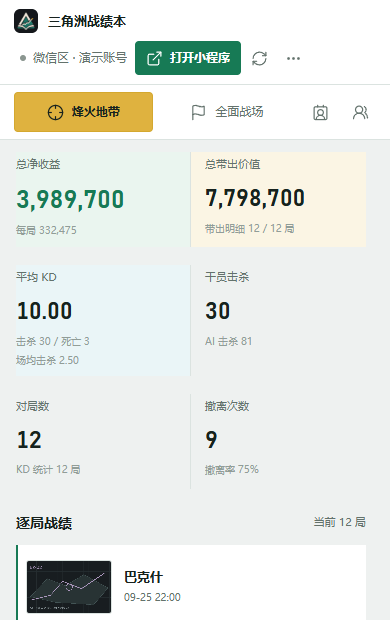
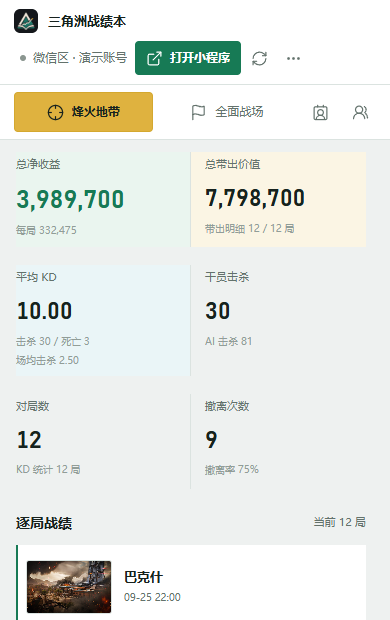
Rename regenerated screenshots so returning visitors get the new ones (#12)
The light-theme refresh replaced the screenshot contents but kept the old
file names, and these images are served with a one-day cache. Anyone who had
loaded the site earlier kept seeing the dark screenshots while the page around
them had already turned light.

The stylesheet was renamed for exactly this reason; the screenshots now follow
the same rule, moving to the -1.9.4 names already used by the phone-sized
renders. Nothing else changes: the harness writes the new names, and the pages,
release verification list and asset whitelist were updated to match.

Changed region(s): [[0.0615, 0.8887, 0.3077, 1.0]]

diff --git a/web/download.html b/web/download.html
@@ -11,7 +11,7 @@
   <link rel="icon" type="image/png" sizes="16x16" href="assets/favicon-16-v2.png">
   <link rel="apple-touch-icon" href="assets/app-icon-v2.png">
   <link rel="stylesheet" href="assets/download-page-v6.css">
-  <link rel="preload" as="image" href="assets/workspace-hero-1.9.0.png" media="(min-width: 721px)">
+  <link rel="preload" as="image" href="assets/workspace-hero-1.9.4.png" media="(min-width: 721px)">
   <link rel="preload" as="image" href="assets/workspace-overview-m-1.9.4.png" media="(max-width: 720px)">
   <script defer src="assets/lucide-0.468.0.min.js"></script>
   <script defer src="assets/download-1.9.4.js"></script>
@@ -42,7 +42,7 @@
       <div class="hero-product">
         <picture>
           <source media="(max-width: 720px)" srcset="assets/workspace-overview-m-1.9.4.png">
-          <img src="assets/workspace-hero-1.9.0.png" width="1264" height="515" alt="新版三角洲战绩本程序实景：玩法导航、收益汇总与逐局战绩。画面为演示数据。" fetchpriority="high">
+          <img src="assets/workspace-hero-1.9.4.png" width="1264" height="515" alt="新版三角洲战绩本程序实景：玩法导航、收益汇总与逐局战绩。画面为演示数据。" fetchpriority="high">
         </picture>
       </div>
       <span class="hero-image-label">程序实景 / 演示数据</span>
@@ -60,30 +60,30 @@
       </div>
       <div class="preview-panel" id="panel-overview" role="tabpanel" aria-labelledby="tab-overview" tabindex="0">
         <div class="preview-caption"><h3>带出多少，和净赚多少，分开算。</h3><p>净收益、带出价值、KD 与撤离表现，一眼看清。再按地图和难度，找到值得复盘的那一局。</p></div>
-        <a class="shot" href="assets/workspace-overview-1.9.0.png" target="_blank" rel="noopener">
+        <a class="shot" href="assets/workspace-overview-1.9.4.png" target="_blank" rel="noopener">
           <picture>
             <source media="(max-width: 720px)" srcset="assets/workspace-overview-m-1.9.4.png">
-            <img class="product-screenshot" src="assets/workspace-overview-1.9.0.png" width="1500" height="940" alt="个人战绩页实景，展示收益汇总、地图筛选和逐局战绩，数据为虚构演示" loading="lazy">
+            <img class="product-screenshot" src="assets/workspace-overview-1.9.4.png" width="1500" height="940" alt="个人战绩页实景，展示收益汇总、地图筛选和逐局战绩，数据为虚构演示" loading="lazy">
           </picture>
           <span class="shot-hint">点开看大图</span>
         </a>
       </div>
       <div class="preview-panel" id="panel-friends" role="tabpanel" aria-labelledby="tab-friends" tabindex="0" hidden>
         <div class="preview-caption"><h3>一起打的局，放在一起比。</h3><p>固定常玩的朋友，对照共同局里的带出、KD、击杀和撤离表现。好友入场成本不可获取，不计算好友净收益。</p></div>
-        <a class="shot" href="assets/workspace-friends-1.9.0.png" target="_blank" rel="noopener">
+        <a class="shot" href="assets/workspace-friends-1.9.4.png" target="_blank" rel="noopener">
           <picture>
             <source media="(max-width: 720px)" srcset="assets/workspace-friends-m-1.9.4.png">
-            <img class="product-screenshot" src="assets/workspace-friends-1.9.0.png" width="1500" height="940" alt="固定队友筛选与共同局数据比较实景，数据为虚构演示" loading="lazy">
+            <img class="product-screenshot" src="assets/workspace-friends-1.9.4.png" width="1500" height="940" alt="固定队友筛选与共同局数据比较实景，数据为虚构演示" loading="lazy">
           </picture>
           <span class="shot-hint">点开看大图</span>
         </a>
       </div>
       <div class="preview-panel" id="panel-sessions" role="tabpanel" aria-labelledby="tab-sessions" tabindex="0" hidden>
         <div class="preview-caption"><h3>凌晨一场，晚上一场，各有各的账。</h3><p>自动识别连续开黑时段。只看其中一段，或多选几段合并复盘，不让同一天的赚亏相互掩盖。</p></div>
-        <a class="shot" href="assets/workspace-sessions-1.9.0.png" target="_blank" rel="noopener">
+        <a class="shot" href="assets/workspace-sessions-1.9.4.png" target="_blank" rel="noopener">
           <picture>
             <source media="(max-width: 720px)" srcset="assets/workspace-sessions-m-1.9.4.png">
-            <img class="product-screenshot" src="assets/workspace-sessions-1.9.0.png" width="1500" height="940" alt="游戏时段浮层实景，显示局数、净收益和时段多选，数据为虚构演示" loading="lazy">
+            <img class="product-screenshot" src="assets/workspace-sessions-1.9.4.png" width="1500" height="940" alt="游戏时段浮层实景，显示局数、净收益和时段多选，数据为虚构演示" loading="lazy">
           </picture>
           <span class="shot-hint">点开看大图</span>
         </a>
